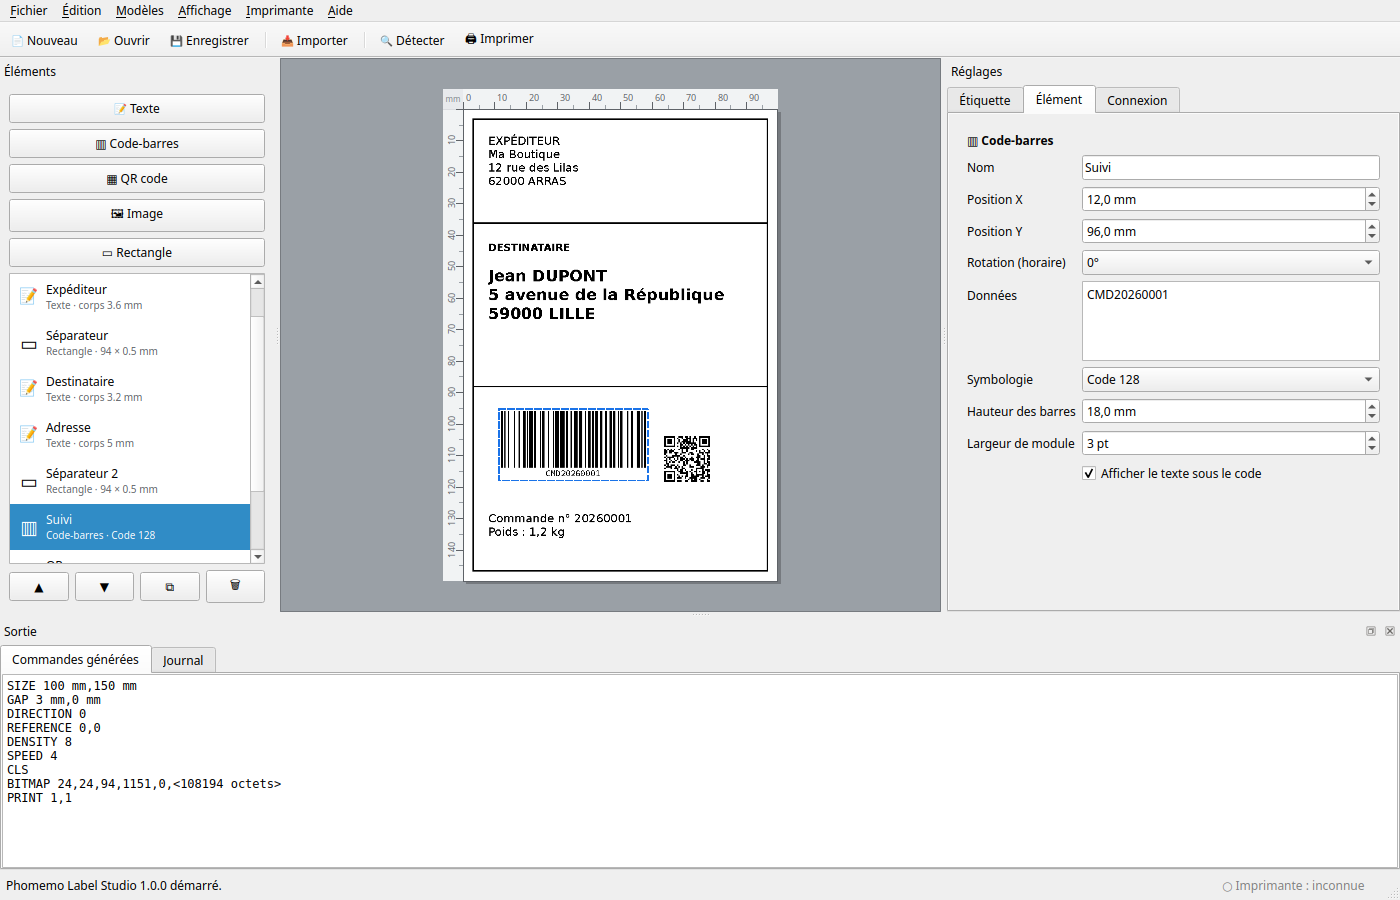
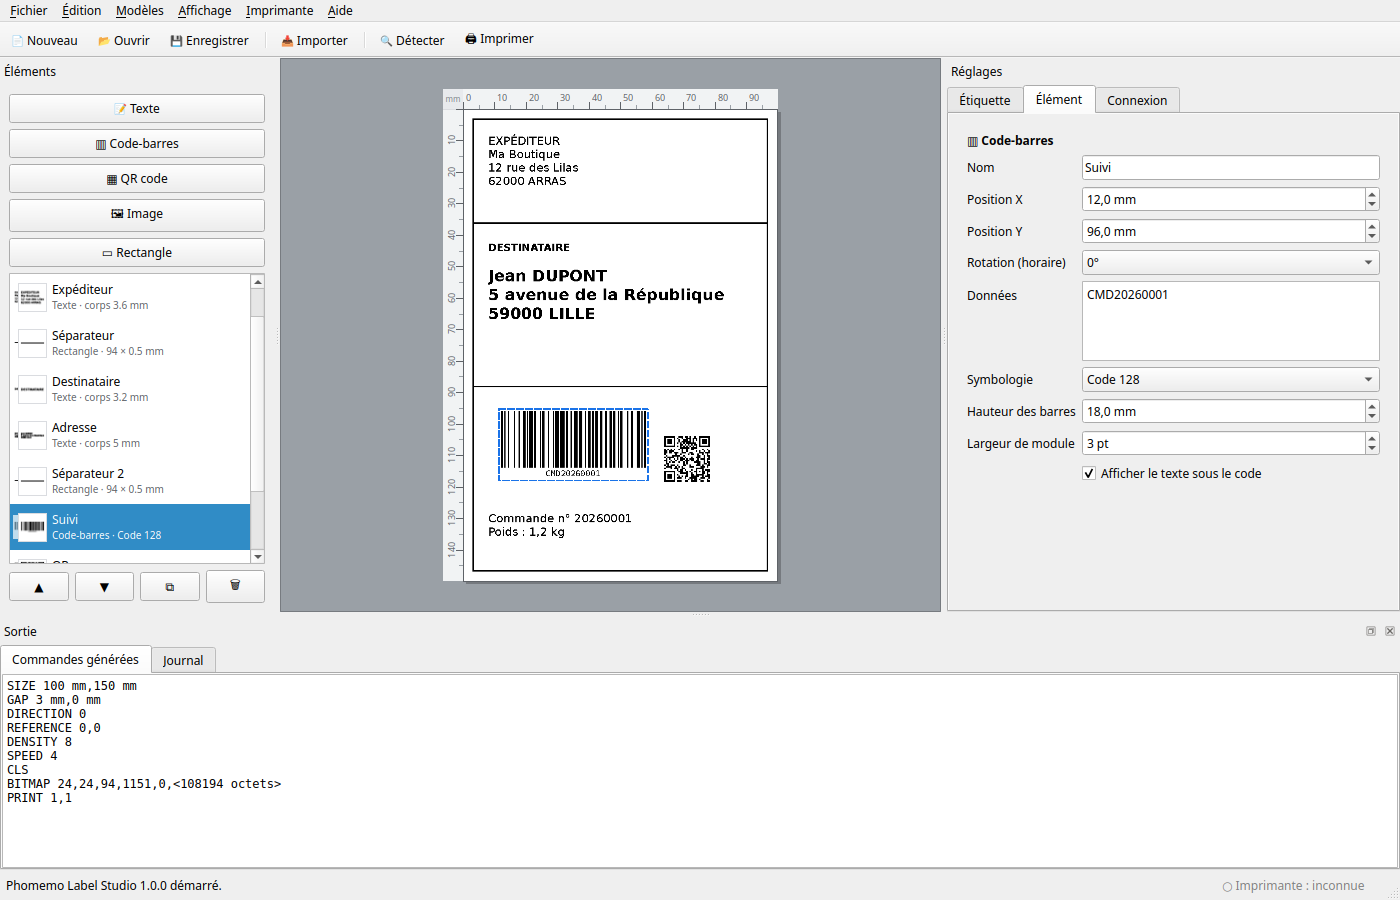
Liste des éléments : miniatures du rendu à la place des icônes
L'icône de type disait « code-barres » ou « texte » sans montrer ce qui serait
imprimé. Chaque entrée affiche maintenant une miniature de l'élément rendu par
le même moteur que l'aperçu : cadre, bloc de texte, barres, grille du QR ou
image réduite.

Le rendu est fait à 203 dpi puis réduit dans un carré de 28 px sur fond blanc.
Les niveaux sont étirés après réduction : sans cela un cadre de 0,5 mm tombait
à un gris presque blanc et la miniature semblait vide — c'est le test sur les
pixels sombres qui l'a montré. Le délégué dessine la miniature (rôle
DecorationRole) avec un liseré, et retombe sur le glyphe du type si le rendu
échoue ; boutons d'ajout et en-tête du panneau gardent l'icône.

Coût mesuré : 7 ms pour reconstruire la liste des neuf éléments d'un bordereau.

🤖 Generated with Codebuff

Changed region(s): [[0.0, 0.3111, 0.1229, 0.6222]]

diff --git a/labelstudio/ui/main_window.py b/labelstudio/ui/main_window.py
@@ -6,8 +6,10 @@ import copy
 import os
 from datetime import datetime
 
+from PIL import ImageOps
+
 from PyQt6.QtCore import QSettings, Qt, QTimer
-from PyQt6.QtGui import QAction, QActionGroup, QKeySequence
+from PyQt6.QtGui import QAction, QActionGroup, QColor, QIcon, QImage, QKeySequence, QPainter, QPixmap
 from PyQt6.QtWidgets import (
     QApplication, QDialog, QDockWidget, QFileDialog, QHBoxLayout, QLabel, QListWidget, QListWidgetItem,
     QMainWindow, QMenu, QMessageBox, QPlainTextEdit, QProgressBar, QPushButton, QScrollArea, QTabWidget, QToolBar,
@@ -19,7 +21,7 @@ from ..history import History
 from .element_list import DETAIL_ROLE, ICON_ROLE, ElementItemDelegate
 from ..imaging import encode_image_file
 from ..models import KIND_ICONS, KIND_LABELS, Element, Label
-from ..renderer import render_label, warnings_for
+from ..renderer import render_element, render_label, warnings_for
 from ..tspl import build_tspl
 from ..zpl import build_zpl
 from .canvas import LabelCanvas
@@ -319,12 +321,31 @@ class MainWindow(QMainWindow):
         self.elements_list.setCurrentRow(select)
         self.elements_list.blockSignals(False)
 
-    @staticmethod
-    def _fill_element_item(item: QListWidgetItem, el: Element) -> None:
-        """Deux lignes : le titre dans le texte de l'item, icône et détail dans des rôles."""
+    def _fill_element_item(self, item: QListWidgetItem, el: Element) -> None:
+        """Deux lignes : titre dans le texte, miniature et détail dans les rôles."""
         item.setText(el.list_title())
-        item.setData(ICON_ROLE, KIND_ICONS.get(el.kind, ""))
+        item.setData(ICON_ROLE, KIND_ICONS.get(el.kind, ""))  # secours si le rendu échoue
         item.setData(DETAIL_ROLE, el.list_detail())
+        item.setIcon(QIcon(self._element_thumb(el)))
+
+    def _element_thumb(self, el: Element, box: int = 28) -> QPixmap:
+        """Miniature du rendu réel de l'élément, sur fond blanc, pour la liste."""
+        pix = QPixmap(box, box)
+        pix.fill(QColor("white"))
+        try:
+            image = render_element(el, self.label.settings).img.convert("L")
+        except Exception:
+            return pix  # miniature vide : la liste affichera l'icône du type
+        image.thumbnail((box - 4, box - 4))  # ratio conservé
+        # Un trait fin (cadre de 0,5 mm) devient presque blanc une fois réduit :
+        # l'étirement des niveaux le rend à nouveau visible à cette taille.
+        image = ImageOps.autocontrast(image)
+        buf = image.tobytes()
+        qimage = QImage(buf, image.width, image.height, image.width, QImage.Format.Format_Grayscale8)
+        painter = QPainter(pix)
+        painter.drawImage((box - image.width) // 2, (box - image.height) // 2, qimage)
+        painter.end()
+        return pix
 
     def _selected_index(self) -> int:
         return self.canvas.selected if 0 <= self.canvas.selected < len(self.label.elements) else -1

diff --git a/tests/test_ui.py b/tests/test_ui.py
@@ -23,7 +23,9 @@ from PyQt6.QtWidgets import QApplication, QMessageBox, QStyleOptionViewItem  # n
 
 from labelstudio import printer, templates  # noqa: E402
 from labelstudio.models import KIND_ICONS, Element, Label, LabelSettings  # noqa: E402
-from labelstudio.ui.element_list import DETAIL_ROLE, ICON_ROLE, ROW_HEIGHT, ElementItemDelegate  # noqa: E402
+from labelstudio.ui.element_list import (  # noqa: E402
+    DETAIL_ROLE, ICON_ROLE, ROW_HEIGHT, THUMB_SIZE, ElementItemDelegate,
+)
 from labelstudio.ui.canvas import (  # noqa: E402
     GUIDE_COLOR, MARGIN, ORIGIN, RULER, LabelCanvas, alignment_offset, ruler_steps,
 )
@@ -419,8 +421,26 @@ class ElementListTests(unittest.TestCase):
         item = self.win.elements_list.item(0)
         el = self.win.label.elements[0]
         self.assertEqual(item.text(), el.list_title())
-        self.assertEqual(item.data(ICON_ROLE), KIND_ICONS[el.kind])
+        self.assertEqual(item.data(ICON_ROLE), KIND_ICONS[el.kind])  # secours du délégué
         self.assertEqual(item.data(DETAIL_ROLE), el.list_detail())
+        self.assertFalse(item.icon().isNull())
+
+    def test_thumbnails_show_the_rendered_element(self):
+        for row in range(self.win.elements_list.count()):
+            item = self.win.elements_list.item(row)
+            image = item.icon().pixmap(THUMB_SIZE, THUMB_SIZE).toImage()
+            dark = sum(1 for x in range(image.width()) for y in range(image.height())
+                       if image.pixelColor(x, y).lightness() < 128)
+            self.assertGreater(dark, 0, f"miniature vide : {item.text()}")
+
+    def test_thumbnail_follows_the_element_settings(self):
+        row = next(i for i, el in enumerate(self.win.label.elements) if el.kind == "barcode")
+        self.win._select(row)
+        item = self.win.elements_list.item(row)
+        before = item.icon().pixmap(THUMB_SIZE, THUMB_SIZE).toImage()
+        self.win.element_panel.bar_height.setValue(30.0)
+        after = item.icon().pixmap(THUMB_SIZE, THUMB_SIZE).toImage()
+        self.assertNotEqual(before, after)
 
     def test_rows_are_tall_enough_for_two_lines(self):
         items = self.win.elements_list

diff --git a/labelstudio/ui/element_list.py b/labelstudio/ui/element_list.py
@@ -7,14 +7,15 @@ secondaire passent par des rôles dédiés, renseignés par la fenêtre principa
 from __future__ import annotations
 
 from PyQt6.QtCore import QModelIndex, QRect, QSize, Qt
-from PyQt6.QtGui import QColor, QFont, QFontMetrics, QPainter
+from PyQt6.QtGui import QColor, QFont, QFontMetrics, QIcon, QPainter, QPen
 from PyQt6.QtWidgets import QApplication, QStyle, QStyledItemDelegate, QStyleOptionViewItem
 
 ICON_ROLE = Qt.ItemDataRole.UserRole + 1
 DETAIL_ROLE = Qt.ItemDataRole.UserRole + 2
 
-ICON_WIDTH = 26  # place réservée à l'icône
+ICON_WIDTH = 32  # place réservée à la miniature
 ROW_HEIGHT = 46  # deux lignes de texte + un peu d'air
+THUMB_SIZE = 28  # côté de la miniature du rendu
 
 
 class ElementItemDelegate(QStyledItemDelegate):
@@ -39,15 +40,23 @@ class ElementItemDelegate(QStyledItemDelegate):
         painter.save()
         painter.setClipRect(opt.rect.adjusted(2, 0, -2, 0))
         left = opt.rect.left() + 6
-        icon = index.data(ICON_ROLE) or ""
-        if icon:
+        thumb = index.data(Qt.ItemDataRole.DecorationRole)
+        if isinstance(thumb, QIcon) and not thumb.isNull():
+            box = QRect(left + (ICON_WIDTH - THUMB_SIZE) // 2,
+                        opt.rect.top() + (opt.rect.height() - THUMB_SIZE) // 2,
+                        THUMB_SIZE, THUMB_SIZE)
+            painter.setPen(QPen(QColor("#dadce0"), 1))  # contour : lisible sur fond blanc
+            painter.drawRect(box)
+            thumb.paint(painter, box.adjusted(1, 1, 0, 0))
+        else:
+            glyph = index.data(ICON_ROLE) or ""
             font = QFont(opt.font)
             font.setPointSizeF(base + 5)
             painter.setFont(font)
             painter.setPen(main)
             painter.drawText(QRect(left, opt.rect.top(), ICON_WIDTH, opt.rect.height()),
-                             Qt.AlignmentFlag.AlignCenter, icon)
-            left += ICON_WIDTH + 4
+                             Qt.AlignmentFlag.AlignCenter, glyph)
+        left += ICON_WIDTH + 4
 
         width = opt.rect.right() - left - 6
         painter.setFont(opt.font)
